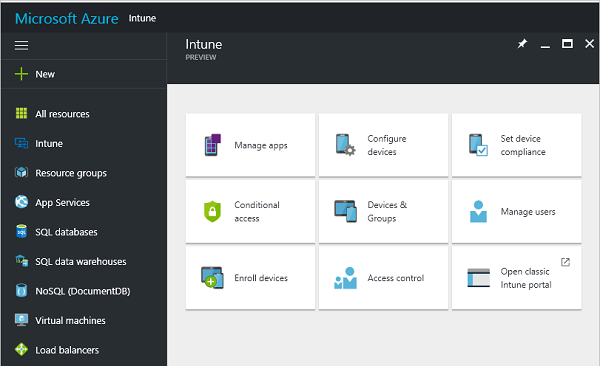
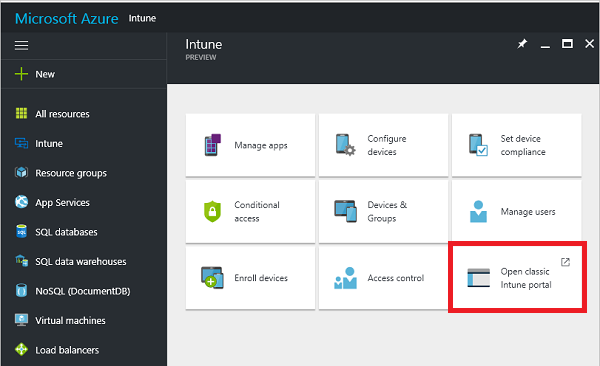
more sign up tweaks

Changed region(s): [[0.72, 0.6612, 0.99, 0.8716]]

diff --git a/InTuneDocs/understand-explore/sign-up-for-30-day-trial-microsoft-intune.md b/InTuneDocs/understand-explore/sign-up-for-30-day-trial-microsoft-intune.md
@@ -91,7 +91,7 @@ Now it’s time to head over to Intune to start managing your users, their devic
 
 ## Keeping the admin experiences straight
 ### Classic Intune
-There are two portals you will use for classic Intune: 
+There are two portals you will use for classic Intune:
 - The Office 365 Admin center ([portal.office.com](https://portal.office.com))
 - The Intune administration console ([manage.microsoft.com](https://manage.microsoft.com))
 
@@ -112,28 +112,26 @@ To get from Intune back to the Office 365 Admin center, choose the **Add Users**
 ![Image of link back to Office 365  Admin center](./media/sign-up/task-add-users.png)
 
 ### Intune Azure preview
-There are two portals you will use for the Intune Azure preview:
+There are three portals you will use for the Intune Azure preview:
 - The Office 365 Admin center ([portal.office.com](https://portal.office.com))
 - The Intune dashboard in Azure ([portal.azure.com](https://portal.azure.com))
-<!--- - The classic Intune admin center--->
+- The classic Intune admin console ([manage.microsoft.com](https://manage.microsoft.com))
 
 The first time you sign on to Intune in Azure, you may not see it on your Azure dashboard. To add the Intune service to your Azure dashboard:
 1. Choose **More services >** in the list of Azure services to the left of the dashboard, and enter Intune in the search box.
 2. Choose **Intune** from the list, and select the star to add the service to the list of services.<br/> ![Image of selecting Intune from services list](./media/sign-up/azure-add-intune1.png)
 3. Choose **Intune** in the list of services to open the Intune dashboard.
 
-Normally, you’ll do your work in the Intune dashboard, shown below. This is the site where you set up and manage your groups, policies, devices, and apps.
+Normally, you’ll do your work in the Intune dashboard, shown below. This is the site where you set up and manage your groups, policies, devices, and apps. You can go to the classic Intune admin console from the dashboard by choosing the **Open classic Intune portal** tile. To return to the Intune Azure preview, enter https://portal.azure.com in your browser address bar and then choose **Intune** again from the services list.
 
  ![Image of Intune dashboard](./media/sign-up/intune-azure-dashboard.png)
 
-
- <!---You can navigate to the log on page for the classic Intune admin center from the dashboard.--->
 
 However, you will use the Office 365 Admin center, shown below, to add and manage your users and other aspects of your account, including billing and support.
 
 ![Image of Office 365 Admin center](./media/sign-up/office-admin-center.png)
 
-To navigate from the Office 365 Admin center to the Intune dashboard, enter https://portal.azure.com in your browser address bar. If you are already logged into Office 365, you will be taken directly to the Intune service on Azure.
+To go from the Office 365 Admin center to the Intune dashboard, enter https://portal.azure.com in your browser address bar. Choose **Intune** in the services list.
 
 To get from Intune back to the Office 365 Admin center, enter https://portal.office.com in your browser address bar. If you are already logged into Intune, you will be taken directly to the Office 365 Admin Center.
 
